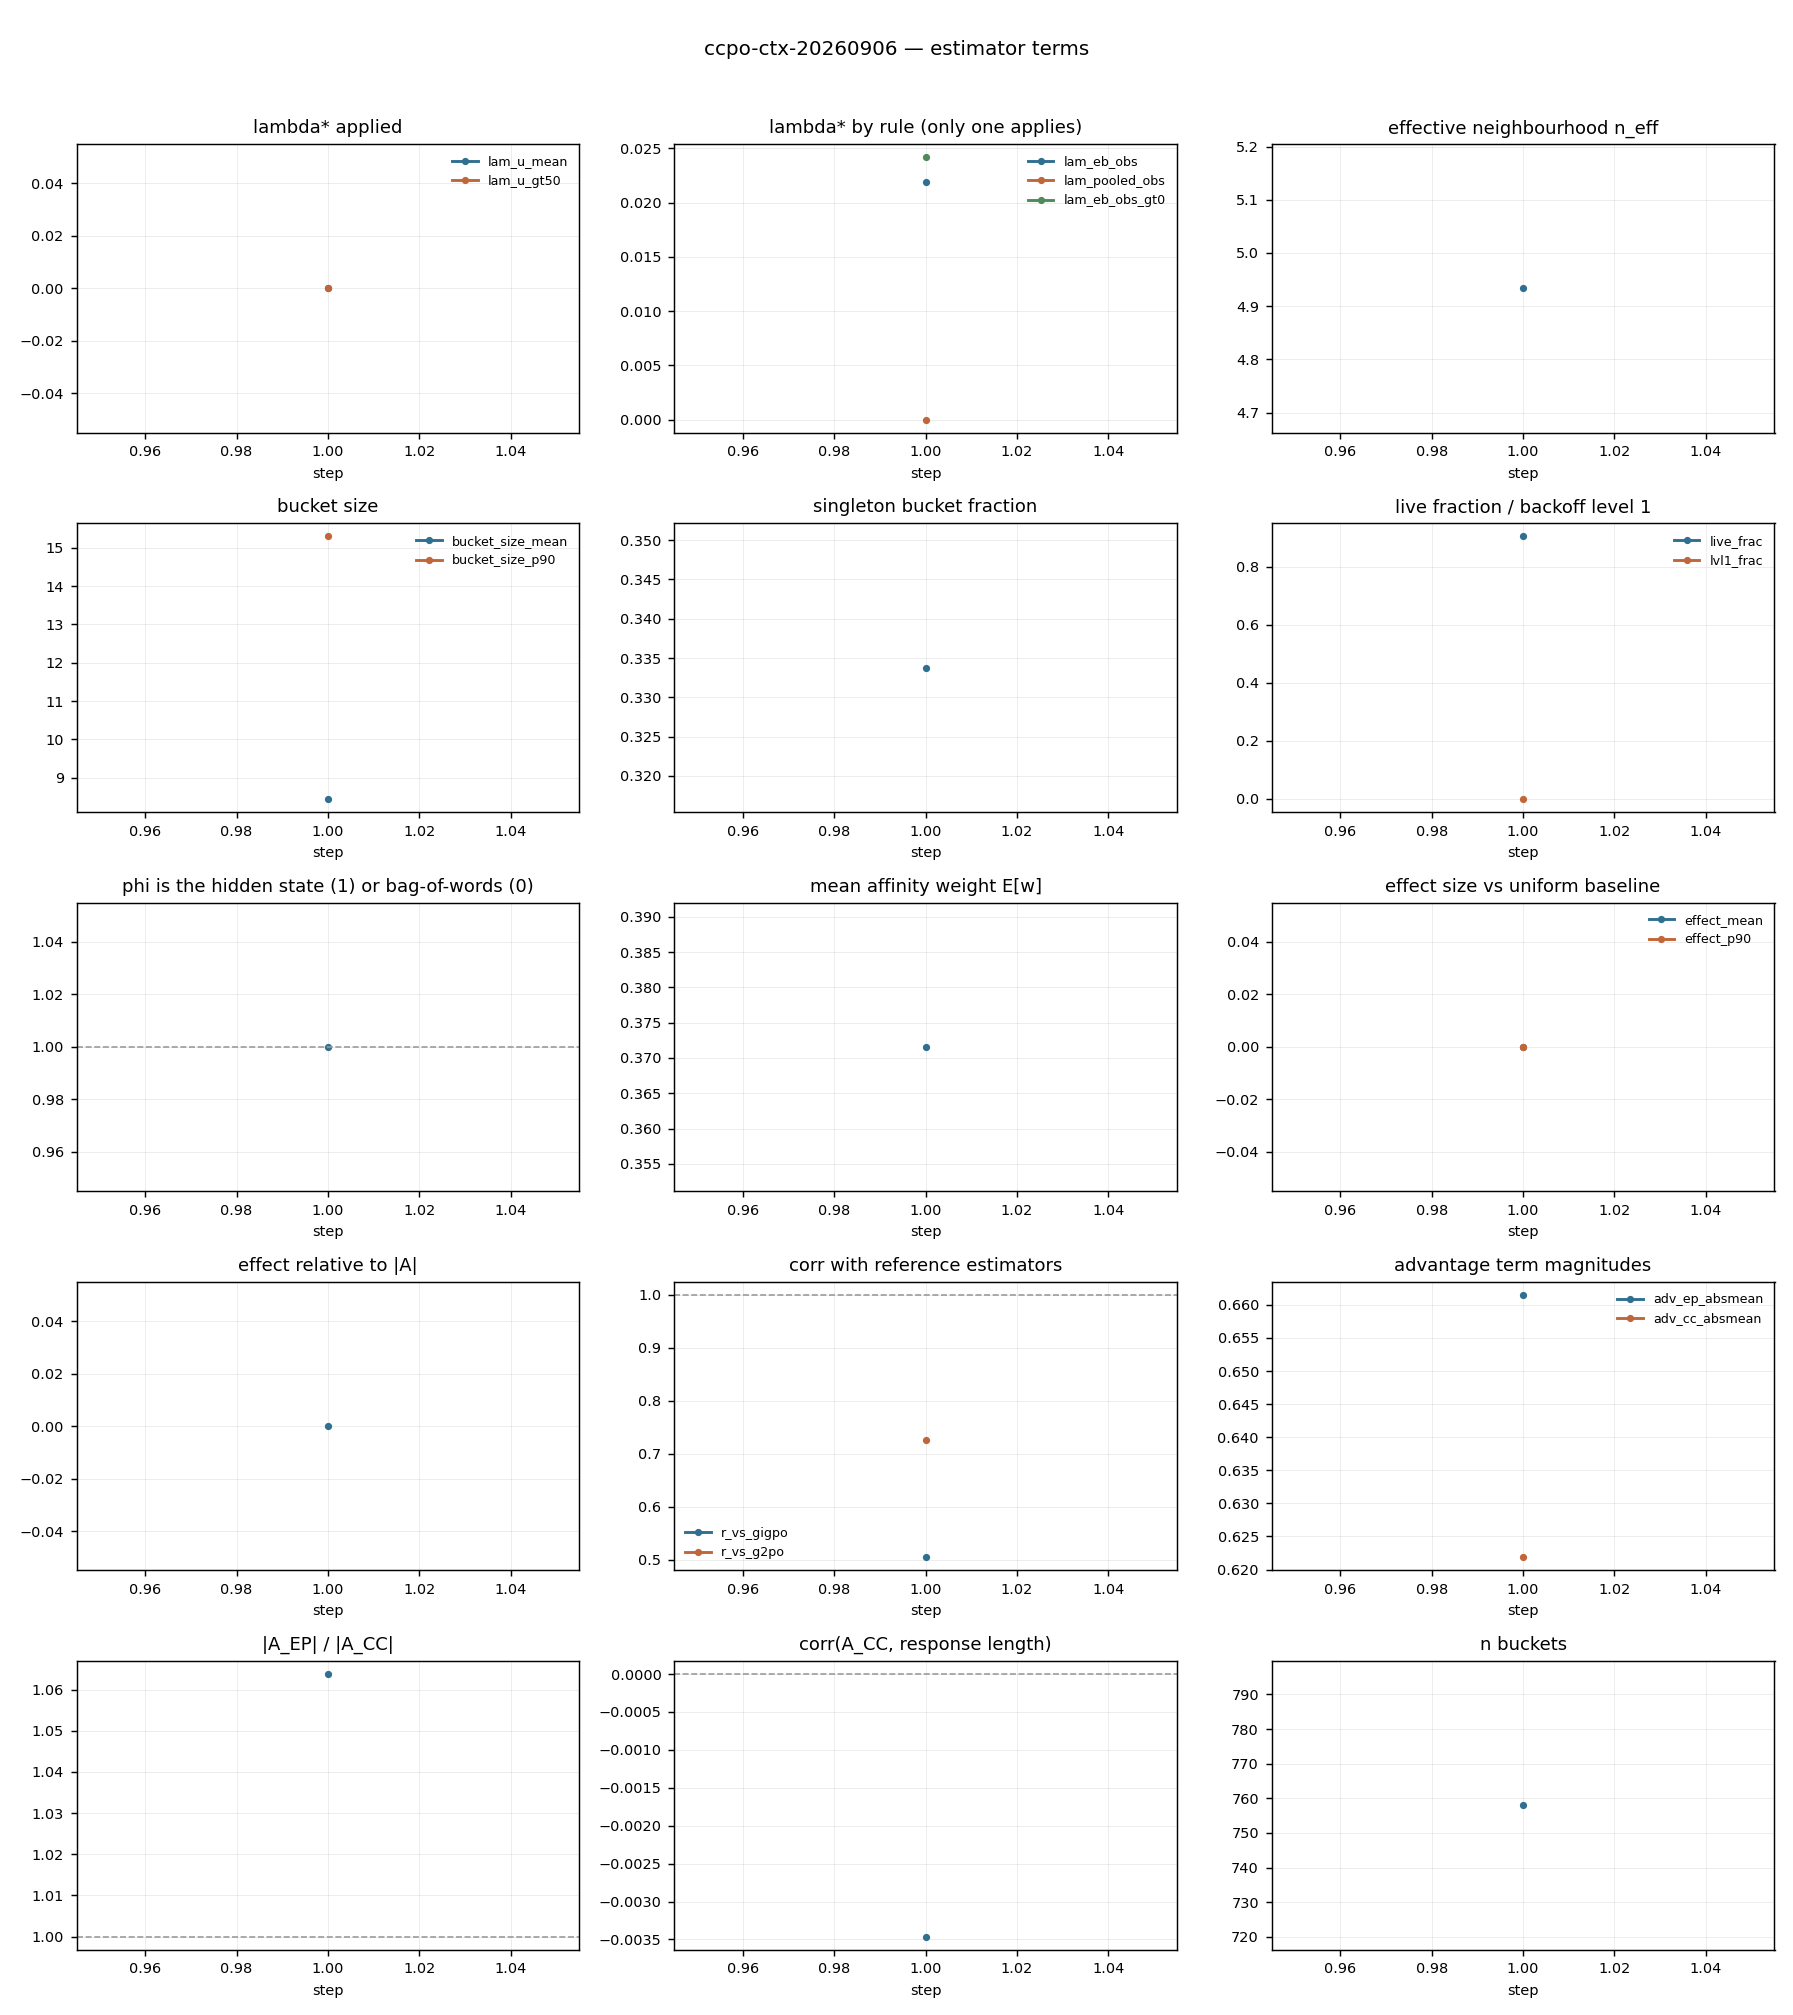
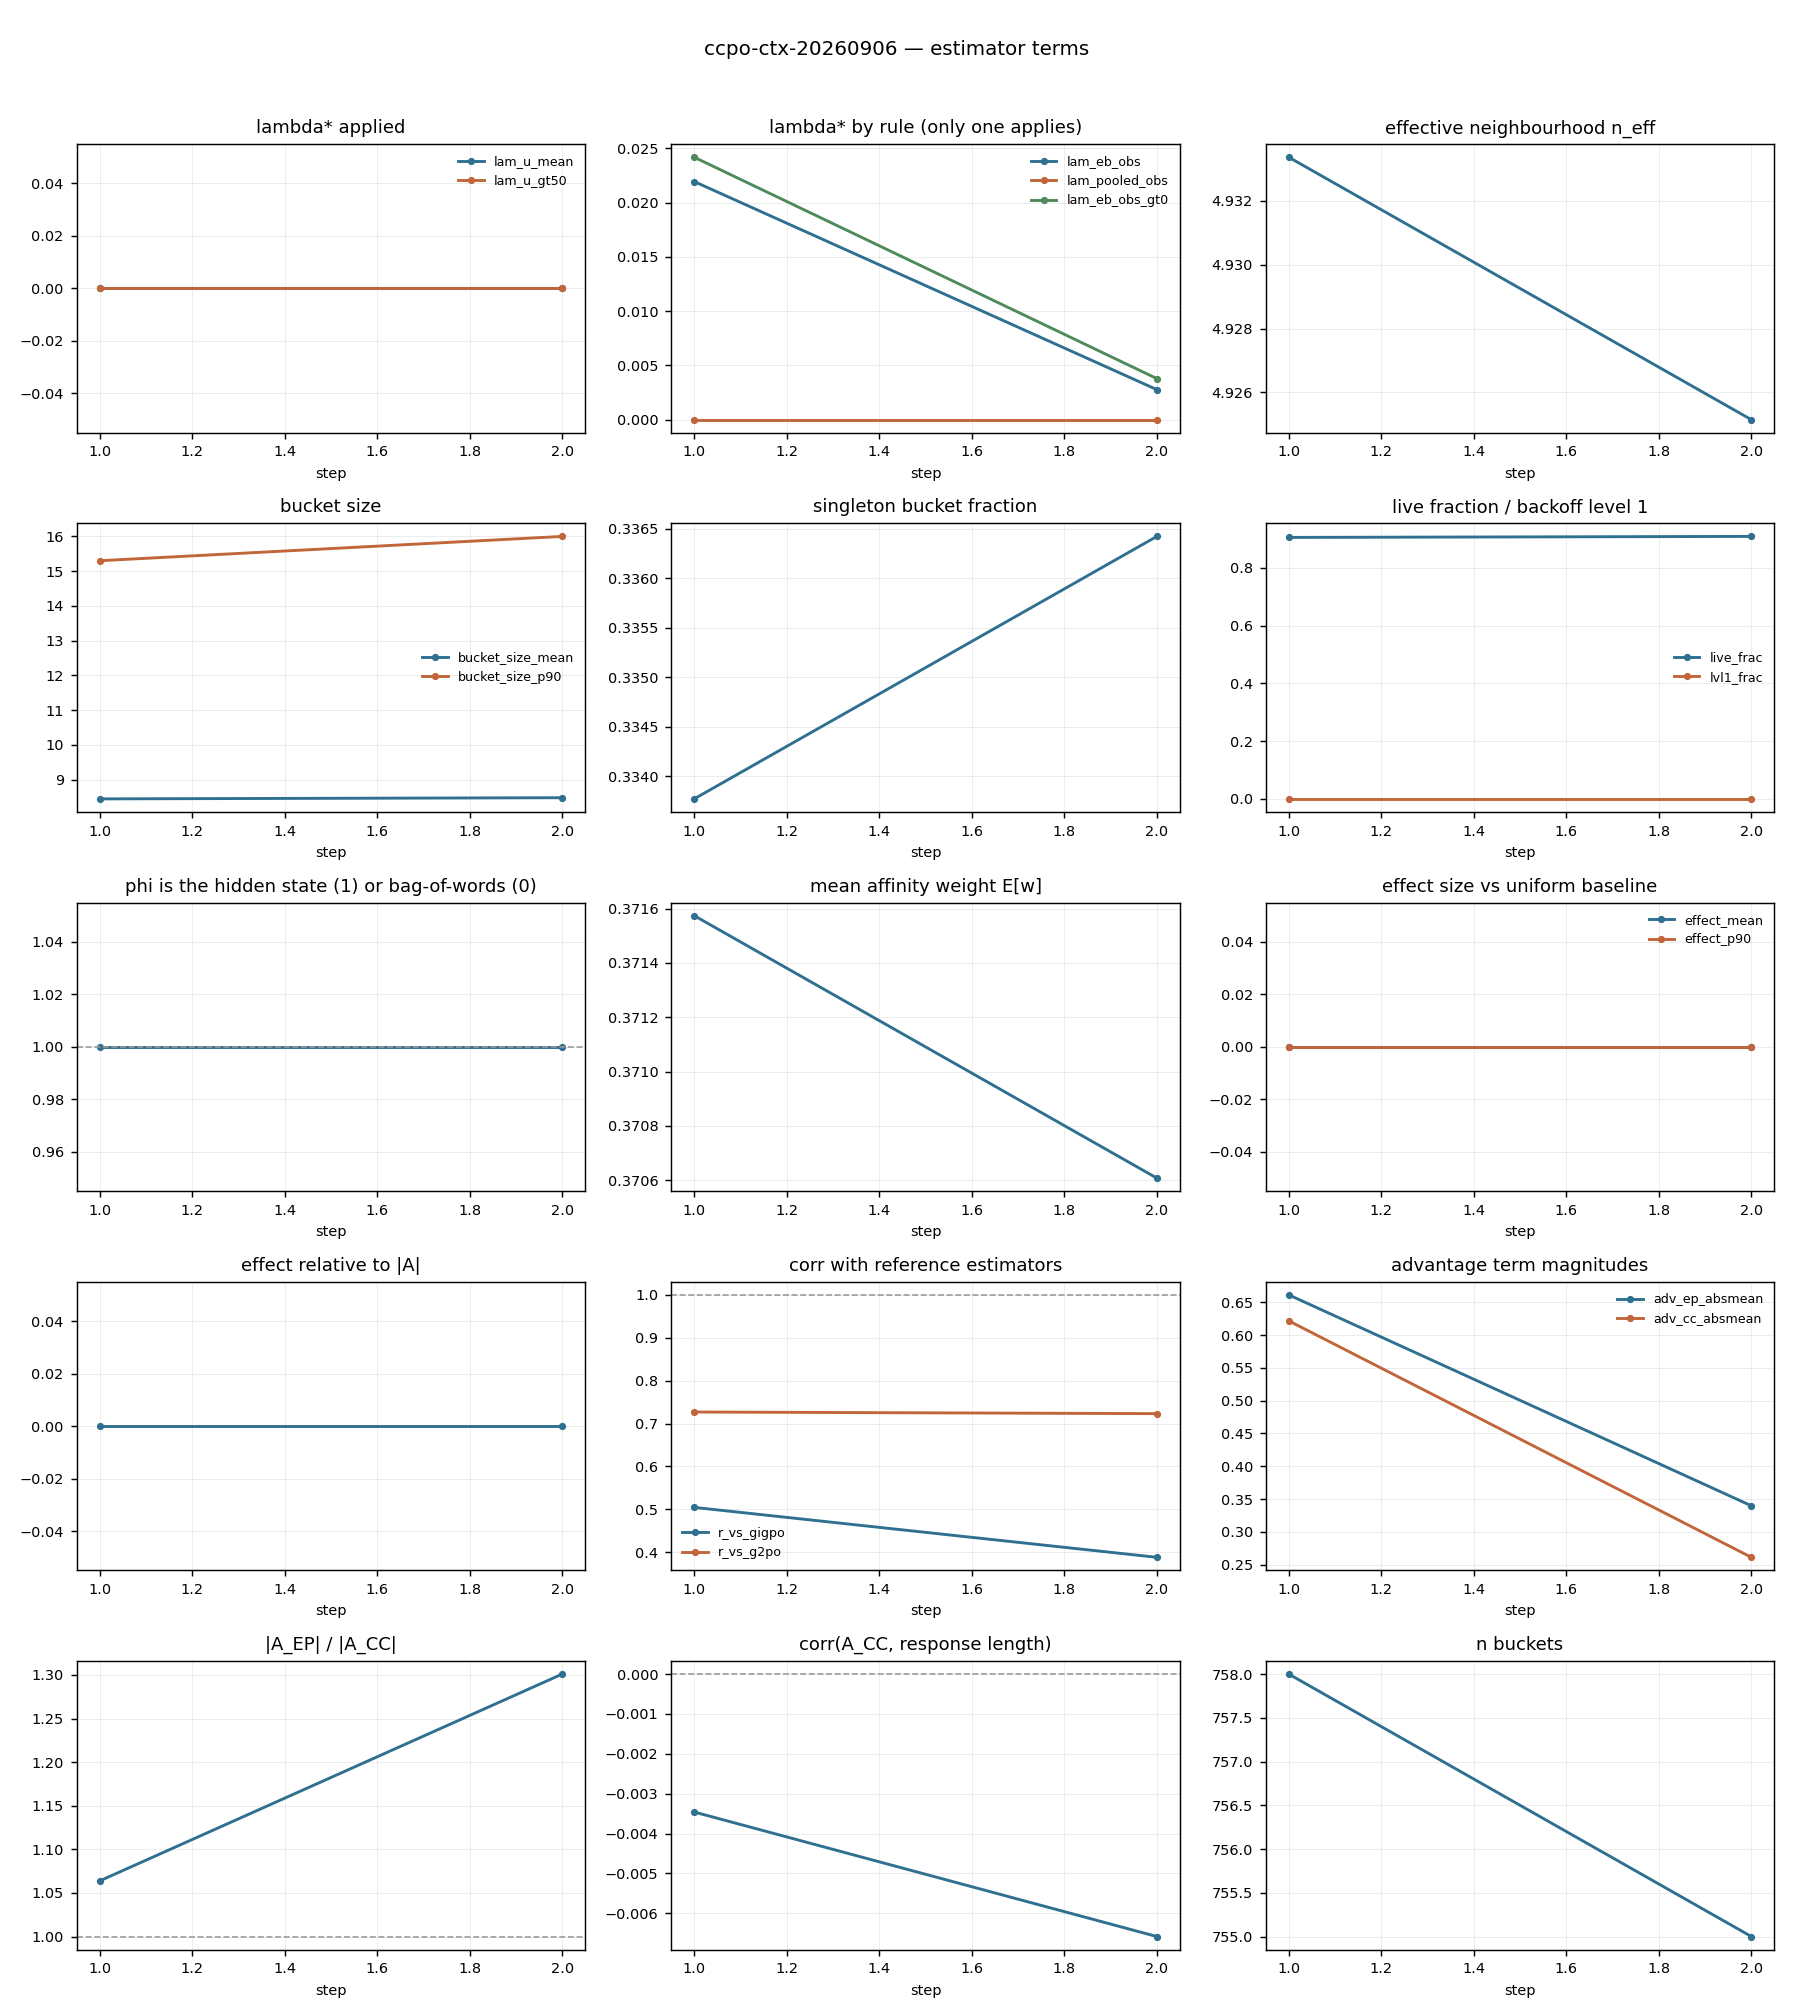
method.html: E5 goes from untested to refuted on ALFWorld
The central hypothesis was previously a null on 15-22 pairs, explicitly not a
refutation. It is now null in training across four phi/target variants at ~1500
credited samples per step, with support ample and all three shrinkage rules
agreeing. The dashboard tile that read 'motivating premise: not supported' now
states the stronger and more specific result.

diff --git a/docs/method.html b/docs/method.html
@@ -214,9 +214,9 @@ td .m{font-family:"IBM Plex Mono",monospace; font-size:.93em}
         <div class="n">Learned φ is worst on 2 of 3 benchmarks; learned affinity ties plain Euclidean (0.515 vs 0.514).</div>
       </div>
       <div class="st crit">
-        <div class="k">MOTIVATING PREMISE</div>
-        <div class="v">Not supported</div>
-        <div class="n">46–78% of steps already sit in usable buckets. Exact matching does not degenerate.</div>
+        <div class="k">CENTRAL HYPOTHESIS</div>
+        <div class="v">Null at scale</div>
+        <div class="n">λ = 0 in all four φ/target variants, ~1,500 samples/step. φ-similarity does not predict return-similarity inside a bucket.</div>
       </div>
     </div>
     <div class="mast-meta">
@@ -785,10 +785,13 @@ td .m{font-family:"IBM Plex Mono",monospace; font-size:.93em}
       <div class="fig">ρ(D*, |A|) = +0.95<br>ρ(D*, t) &nbsp;= −0.48<br>ρ(d<sup>pred</sup>, t) = +0.74</div>
     </div>
     <div class="card">
-      <div class="tag"><span class="id">E5</span><span class="verdict v-warn">untested</span></div>
-      <h3>The central hypothesis has no evidence yet</h3>
-      <p>Its first valid test — after fixing oracle noise, the horizon confound, probe mismatch, and a pinned set that contained no context variation — returned a null. Not a refutation: <span class="mono">n = 15–22</span> pairs.</p>
-      <div class="fig">oracle reliability 0.63 · ceiling 0.79<br>best ρ +0.489 (p = 0.069)<br>does not survive the scale-free form</div>
+      <div class="tag"><span class="id">E5</span><span class="verdict v-bad">refuted on ALFWorld</span></div>
+      <h3>The central hypothesis is null at scale</h3>
+      <p>The earlier test — after fixing oracle noise, the horizon confound, probe mismatch, and a pinned set with no context variation — returned a null on <span class="mono">n = 15–22</span> pairs, too small to be a refutation. <b>2026-09-06, in training, on Qwen2.5-1.5B-Instruct:</b> λ is <b>exactly 0</b> in every one of four φ/target combinations, each measured over ~1,500 credited samples per step. The φ-weighted baseline never departs from the uniform one by more than reweighting noise, so <span class="mono">A<sup>CC</sup></span> is that baseline.</p>
+      <div class="fig">hidden / return &nbsp;λ=0.000 · r<sub>GiGPO</sub>=+0.977<br>hidden / nextnode &nbsp;λ=0.000 · +0.530<br>bow (explicit context) &nbsp;λ=0.000 · +0.523<br>hidden+ctx / nextnode &nbsp;λ=0.000 · +0.505</div>
+      <p style="margin-top:10px"><span class="mono">Var(d) = s²(1/n_eff − 1/J)</span> is the variance of <span class="mono">b_obs − b_LOO</span> <em>under the null that the weights are uncorrelated with the returns</em>, and <span class="mono">τ² = max(0, E[d²] − E[Var(d)])</span> is 0 throughout: <b>φ-similarity does not predict return-similarity inside a bucket</b> — not from the policy's hidden state, not from explicit <span class="mono">{t, n_unique, revisit, progress}</span>, not from both.</p>
+      <p style="margin-top:8px">Neither escape survives. <b>Support is ample</b>: <span class="mono">n_eff</span> 4.86–4.93 of a maximum 7, mean bucket size 8.4, 90% of samples credited, 758 buckets per step — the earlier <span class="mono">n_eff ≈ 2.1</span> figure came from a four-rollout smoke test where J was capped at 3 by construction. <b>And the shrinkage rule is not the cause</b>: <span class="mono">eb</span>, <span class="mono">eb_pooled</span> and the hierarchical <span class="mono">eb_hier</span> independently agree.</p>
+      <p style="margin-top:8px">What remains once λ=0 is the <em>leave-one-out exclusion</em> (Eq. 1, which E6 supports) and, with <span class="mono">ACG_CCPO_TARGET=nextnode</span>, G²PO's successor-value target. Both change the credit substantially — <span class="mono">r<sub>GiGPO</sub></span> falls to +0.39 — but neither is context conditioning.</p>
     </div>
     <div class="card">
       <div class="tag"><span class="id">E6</span><span class="verdict v-ok">supports Eq. 1</span></div>
